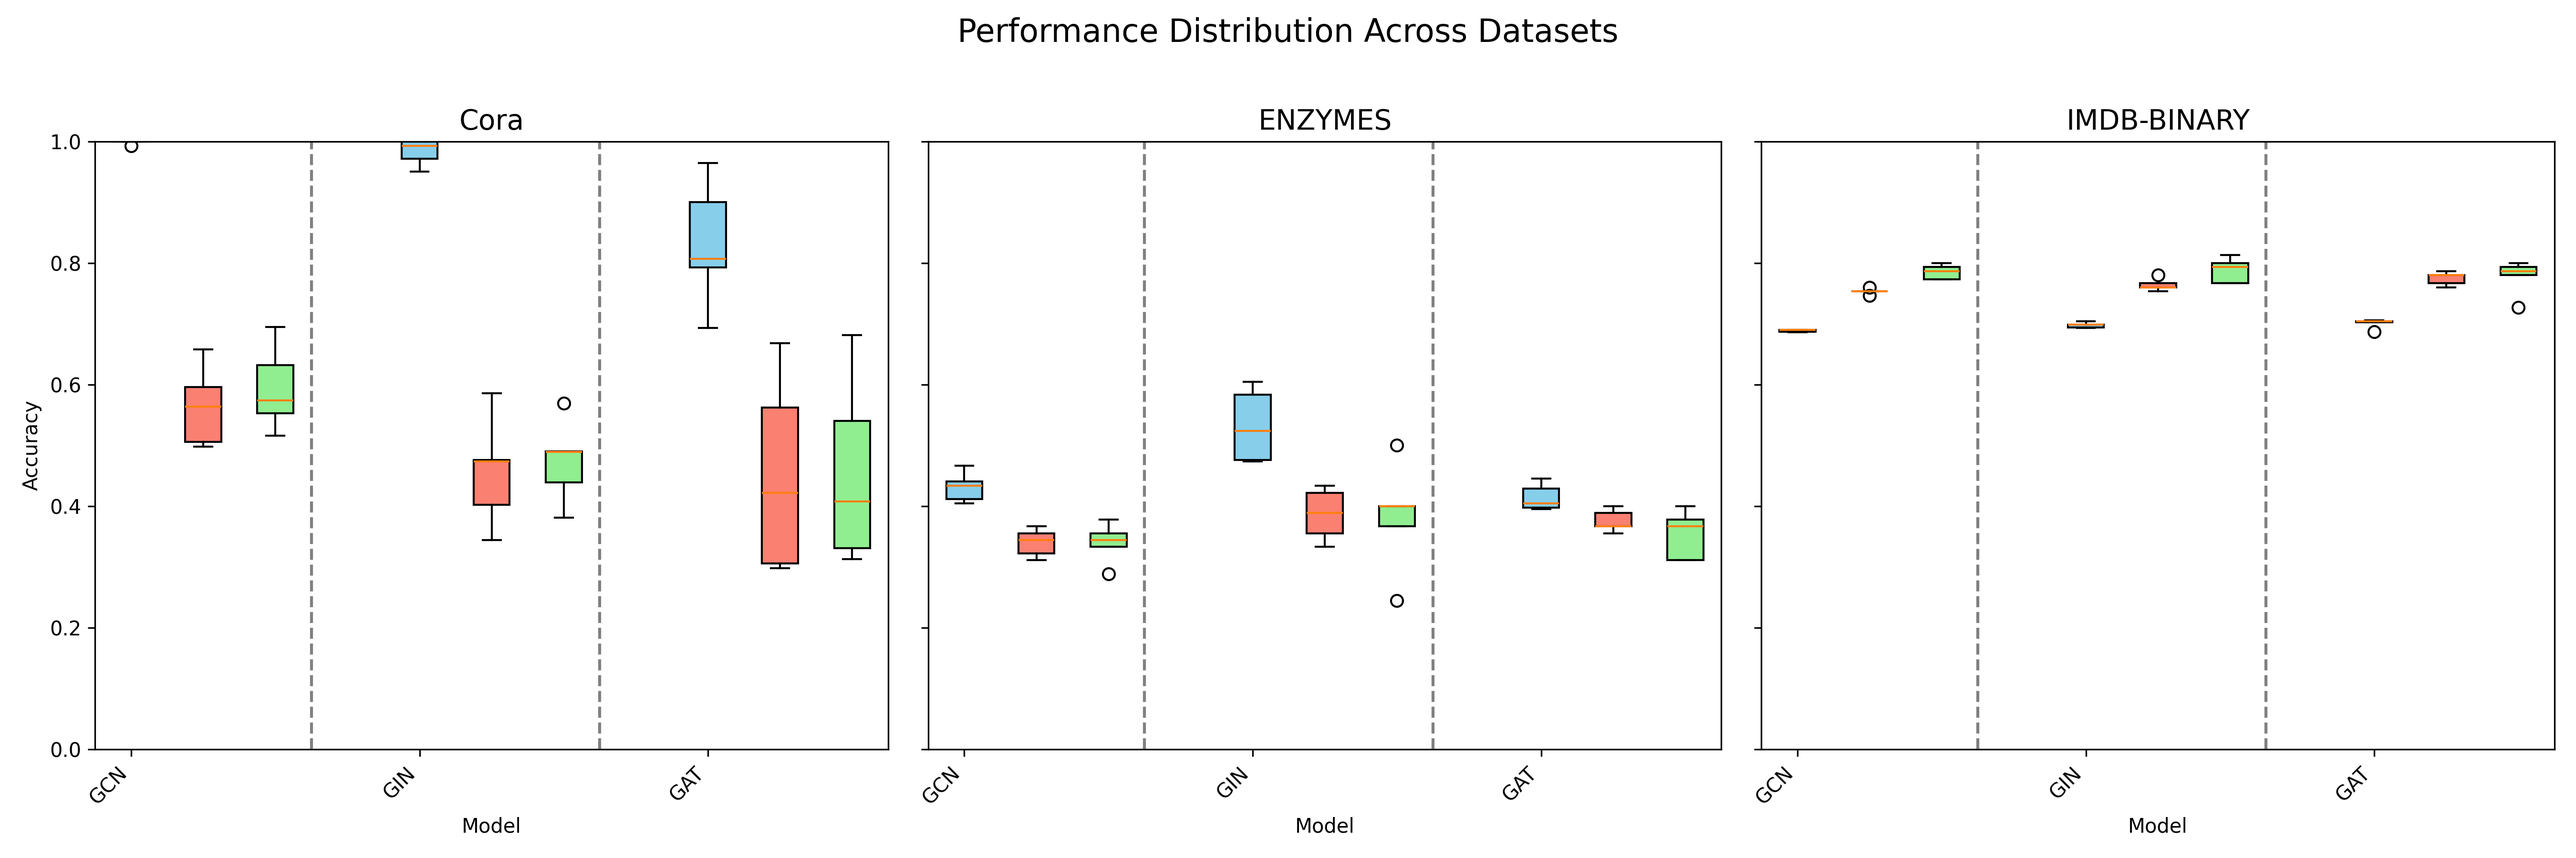
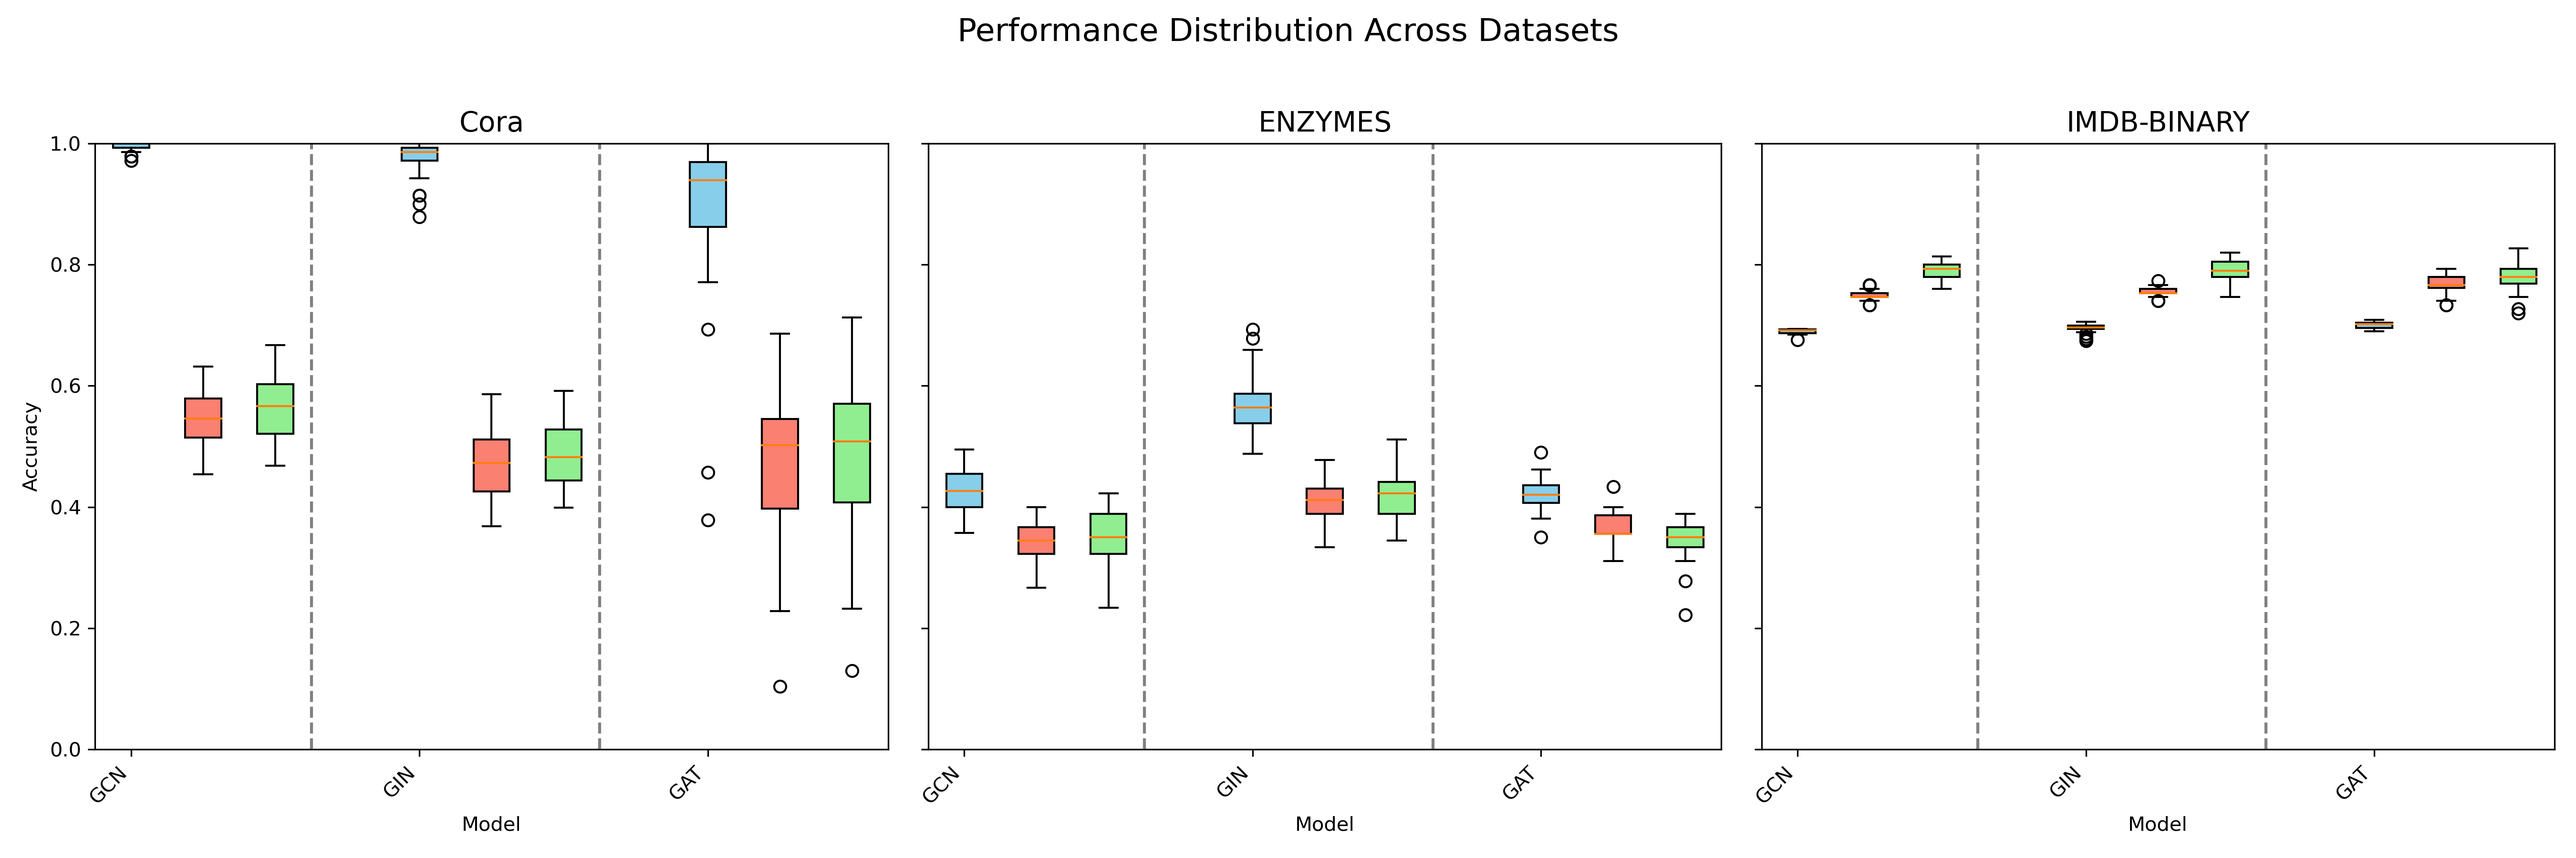
30 iterations

diff --git a/run.py b/run.py
@@ -14,7 +14,7 @@ def main(nhid=64, heads=4, lr=0.001, batch_size=64, epochs=500, datasets=['Cora'
     for dataset, task in zip(datasets, tasks):
         result[dataset] = {}
         for model, name in zip([GCN, GIN, GAT], ['GCN', 'GIN', 'GAT']):
-            train_accs, val_accs, test_accs = default_test(dataset, task, model, num_iterations=5, num_layer=2, nhid=nhid, heads=heads, lr=lr, batch_size=batch_size, epochs=epochs)
+            train_accs, val_accs, test_accs = default_test(dataset, task, model, num_iterations=30, num_layer=2, nhid=nhid, heads=heads, lr=lr, batch_size=batch_size, epochs=epochs)
             result[dataset][name] = {
                 'train_accs': train_accs,
                 'val_accs': val_accs,

diff --git a/src/utils/utils.py b/src/utils/utils.py
@@ -63,7 +63,7 @@ class Train:
         else:
             raise ValueError(f"Criterion '{criterion}' not found. Available options are: {list(criterion_dict.keys())}")
         self.device = 'cuda' if torch.cuda.is_available() else 'cpu'
-        # print(f'Using {self.device}')
+        print(f'Using {self.device}')
         self.verbose = verbose
         self.plot = plot
 
